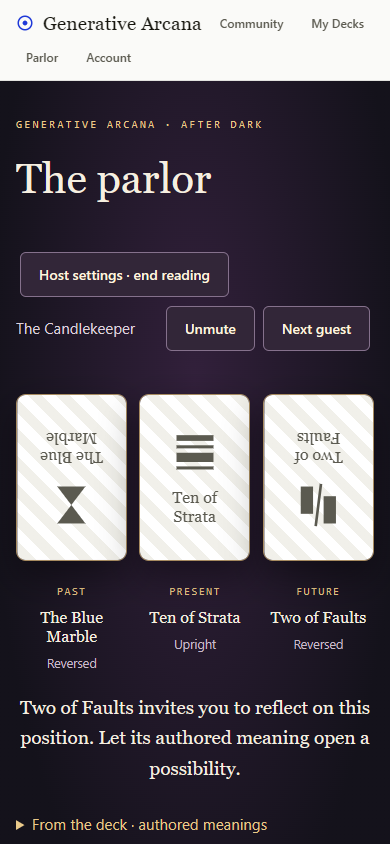
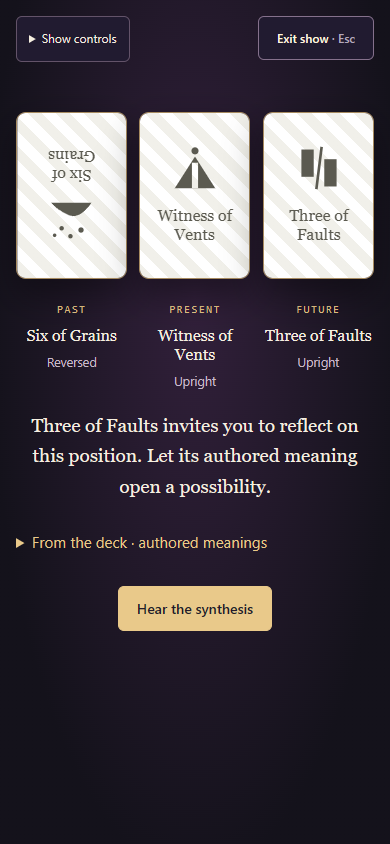
Add focused parlor show mode with safe Escape exit

diff --git a/app/src/parlor/Parlor.tsx b/app/src/parlor/Parlor.tsx
@@ -1,4 +1,4 @@
-import { useEffect, useLayoutEffect, useMemo, useState, useSyncExternalStore } from "react";
+import { useEffect, useLayoutEffect, useMemo, useRef, useState, useSyncExternalStore } from "react";
 import { useBrowserSession } from "../auth/session";
 import { listMyDecks, type CatalogDeckSummary } from "../catalog/api";
 import { RemoteDeckBoundary } from "../app/RemoteDeckBoundary";
@@ -11,17 +11,17 @@ import { characters, clearKeys, defaultSettings, readSettings, readySettings, sa
 import { ParlorMachine } from "./machine";
 import "./parlor.css";
 
-export function Parlor() {
+export function Parlor({ onShowChange }: { onShowChange(showing: boolean): void }) {
   const { session, signIn, refresh } = useBrowserSession();
   if (session.status !== "authenticated" || !session.accountId) return <section className="parlor parlor-gate">
     <p className="parlor-eyebrow">Generative Arcana · After dark</p><h1>The parlor</h1>
     <p>{session.status === "loading" ? "Checking your invitation…" : "Sign in to host a reading at your private table."}</p>
     {session.status !== "loading" && <><button onClick={() => signIn("/parlor")}>Sign in to enter</button><button onClick={() => void refresh()}>Check account again</button></>}
   </section>;
-  return <Host key={session.accountId} accountId={session.accountId} />;
+  return <Host key={session.accountId} accountId={session.accountId} onShowChange={onShowChange} />;
 }
 
-function Host({ accountId }: { accountId: string }) {
+function Host({ accountId, onShowChange }: { accountId: string; onShowChange(showing: boolean): void }) {
   const [restored] = useState(() => { try { return readSettings(window.localStorage, accountId); } catch { return { settings: defaultSettings(), remember: false }; } });
   const [settings, setSettings] = useState(restored.settings);
   const [remember, setRemember] = useState(restored.remember);
@@ -31,6 +31,25 @@ function Host({ accountId }: { accountId: string }) {
   const [status, setStatus] = useState("loading");
   const [attempt, setAttempt] = useState(0);
   const [hosting, setHosting] = useState(false);
+  const startButton = useRef<HTMLButtonElement>(null);
+  const showing = useRef(false);
+  useLayoutEffect(() => {
+    onShowChange(hosting);
+    if (hosting) document.scrollingElement?.scrollTo({ top: 0 });
+    if (!hosting && showing.current) startButton.current?.focus();
+    showing.current = hosting;
+    return () => onShowChange(false);
+  }, [hosting, onShowChange]);
+  useEffect(() => {
+    if (!hosting) return;
+    const exit = (event: KeyboardEvent) => {
+      if (event.key === "Escape" && !event.isComposing) { event.preventDefault(); setHosting(false); }
+    };
+    const leave = () => setHosting(false);
+    window.addEventListener("keydown", exit);
+    window.addEventListener("pagehide", leave);
+    return () => { window.removeEventListener("keydown", exit); window.removeEventListener("pagehide", leave); };
+  }, [hosting]);
   useEffect(() => {
     const abort = new AbortController(); setStatus("loading");
     void listMyDecks(abort.signal).then((items) => { if (!abort.signal.aborted) { setDecks(items); setDeckId((previous) => items.some((deck) => deck.id === previous) ? previous : items[0]?.id ?? ""); setStatus("ready"); } })
@@ -41,9 +60,11 @@ function Host({ accountId }: { accountId: string }) {
     setSettings(next); setRemember(persist);
     try { setStorageError(!saveSettings(window.localStorage, accountId, next, persist)); } catch { setStorageError(true); }
   };
-  return <section className="parlor">
+  return <section className={`parlor${hosting ? " parlor-show" : ""}`} aria-label={hosting ? "Parlor show" : "Parlor setup"}>
+    {hosting && <button className="parlor-exit" onClick={() => setHosting(false)} aria-keyshortcuts="Escape">Exit show <span aria-hidden>· Esc</span></button>}
+    {!hosting &&
     <div className="parlor-heading"><div><p className="parlor-eyebrow">Generative Arcana · After dark</p><h1>The parlor</h1></div>
-      {hosting && <button onClick={() => setHosting(false)}>Host settings · end reading</button>}</div>
+    </div>}
     {!hosting && <div className="parlor-settings">
       <div><h2>Set the table</h2><p>Choose a deck, a storyteller, and the voice of the evening.</p>
         <label>Deck<select aria-label="Deck" value={deckId} onChange={(event) => setDeckId(event.target.value)} disabled={status !== "ready"}>
@@ -71,14 +92,14 @@ function Host({ accountId }: { accountId: string }) {
       </div>
     </div>}
     {deckId && <RemoteDeckBoundary key={deckId} deckId={deckId} routeKey="/parlor">
-      <TableSetup deckId={deckId} settings={settings} hosting={hosting} start={() => setHosting(true)} />
+      <TableSetup deckId={deckId} settings={settings} hosting={hosting} start={() => setHosting(true)} startButton={startButton} />
     </RemoteDeckBoundary>}
   </section>;
 }
 function KeyInput({ label, value, change }: { label: string; value: string; change(value: string): void }) {
   return <label>{label}<input type="password" value={value} onChange={(event) => change(event.target.value)} autoComplete="off" autoCapitalize="none" spellCheck={false} maxLength={4096} data-1p-ignore data-lpignore="true" /></label>;
 }
-function TableSetup({ deckId, settings, hosting, start }: { deckId: string; settings: Settings; hosting: boolean; start(): void }) {
+function TableSetup({ deckId, settings, hosting, start, startButton }: { deckId: string; settings: Settings; hosting: boolean; start(): void; startButton: React.RefObject<HTMLButtonElement> }) {
   const artwork = useArtworkSelection();
   const deck = getDeck(deckId)!;
   const ready = readySettings(settings) && deck.cards.length >= 3 && (!artwork || (artwork.resolved && !!artwork.packId));
@@ -92,7 +113,8 @@ function TableSetup({ deckId, settings, hosting, start }: { deckId: string; sett
     {artwork?.status === "error" && <p role="alert">Artwork could not be checked. <button onClick={artwork.refresh}>Retry artwork</button></p>}
     <p>Questions and conversation stay in memory here and clear for the next guest. Your selected provider receives the question and deck context; ElevenLabs receives narration when enabled. Their retention policies apply. This app does not save guest readings.</p>
     {deck.cards.length < 3 && <p role="alert">Choose a deck with at least three cards.</p>}
-    <button className="parlor-primary" disabled={!ready} onClick={start}>Open the parlor</button>
+    <button ref={startButton} className="parlor-primary" disabled={!ready} onClick={start}>Start the show</button>
+    <p className="parlor-show-hint">The setup and navigation fade away. Press Escape or Exit show to end the reading and return here.</p>
   </div>;
 }
 function Ritual({ deckId, settings }: { deckId: string; settings: Settings }) {
@@ -105,6 +127,15 @@ function Ritual({ deckId, settings }: { deckId: string; settings: Settings }) {
   const [muted, setMuted] = useState(false);
   const [followup, setFollowup] = useState("");
   const [back, setBack] = useState<PackArtworkAsset | null>(null);
+  const stage = useRef<HTMLDivElement>(null);
+  useLayoutEffect(() => {
+    // Keep keyboard focus in the current, visible step when its initiating control disappears.
+    const active = document.activeElement;
+    if (!active || active === document.body || (stage.current?.contains(active) && !active.closest(".parlor-show-controls"))) {
+      const target = stage.current?.querySelector<HTMLElement>("textarea, .parlor-primary, .parlor-actions button");
+      (target ?? stage.current)?.focus({ preventScroll: true });
+    }
+  }, [state.phase]);
   useLayoutEffect(() => () => machine.dispose(), [machine]);
   useEffect(() => {
     const abort = new AbortController(); setBack(null);
@@ -118,14 +149,14 @@ function Ritual({ deckId, settings }: { deckId: string; settings: Settings }) {
     return () => window.removeEventListener("pagehide", clear);
   }, [machine]);
   const busy = ["drawing", "generating", "speaking", "conversation"].includes(state.phase);
-  return <div className="parlor-ritual" onClickCapture={(event) => {
+  return <div ref={stage} tabIndex={-1} className="parlor-ritual" onClickCapture={(event) => {
     // A fast response can replace Retry with Pause underneath the second half of a double click.
     if (event.detail > 1) { event.preventDefault(); event.stopPropagation(); }
   }}>
-    <div className="parlor-toolbar"><p>{characters[settings.character].name}</p><div>
+    <details className="parlor-show-controls"><summary>Show controls</summary><div>
       <button aria-pressed={muted} onClick={() => { const next = !muted; setMuted(next); if (next && state.phase === "speaking") machine.captions(); }}>{muted ? "Unmute" : "Mute"}</button>
       <button onClick={() => { machine.reset(); setFollowup(""); }}>Next guest</button>
-    </div></div>
+    </div></details>
     {state.phase === "greeting" && <div className="parlor-intro"><div className="parlor-sigil" aria-hidden>☾</div><h2>A seat between worlds</h2><p>{characters[settings.character].greeting}</p><button className="parlor-primary" onClick={() => machine.begin()}>Take a seat</button><small>For reflection and entertainment. You may stop at any time.</small></div>}
     {state.phase === "question" && <form className="parlor-question" onSubmit={(event) => { event.preventDefault(); machine.review(); }}><label>What would you like to explore?<textarea value={state.question} onChange={(event) => machine.question(event.target.value)} maxLength={1200} autoFocus /></label><button className="parlor-primary" disabled={!state.question.trim()}>Bring this question</button></form>}
     {state.phase === "confirm" && <div className="parlor-question"><h2>Shall we ask the cards?</h2><blockquote>{state.question}</blockquote><button onClick={() => machine.edit()}>Edit question</button><button className="parlor-primary" onClick={() => machine.confirm()}>Confirm & deal three cards</button></div>}

diff --git a/app/src/app/App.tsx b/app/src/app/App.tsx
@@ -1,4 +1,4 @@
-import { useEffect, useLayoutEffect, type CSSProperties } from "react";
+import { useEffect, useLayoutEffect, useState, type CSSProperties } from "react";
 import { useBrowserSession } from "@/auth/session";
 import { Account } from "@/auth/Account";
 import { parseAccountRoute } from "@/auth/api";
@@ -24,6 +24,7 @@ type Tab = "about" | "browse" | "read";
 export function App() {
   const route = useHashRoute();
   const { session } = useBrowserSession();
+  const [showMode, setShowMode] = useState(false);
 
   // Clear authenticated snapshots before the new session's passive loading effects start.
   useLayoutEffect(() => { catalogDeckRuntime.clear(); }, [session]);
@@ -34,7 +35,7 @@ export function App() {
   let tab: Tab | null = null;
   const accountRoute = parseAccountRoute(route, window.location.search);
   if (accountRoute) content = <Account key={route} route={accountRoute} />;
-  else if (route.match(/^\/parlor\/?$/)) content = <Parlor />;
+  else if (route.match(/^\/parlor\/?$/)) content = <Parlor onShowChange={setShowMode} />;
   else if (route.match(/^\/community\/?$/)) content = <Community />;
   else if (route.match(/^\/my-decks\/?$/)) content = <MyDecks key={session.status === "authenticated" ? session.user.email : session.status} />;
   else if ((m = route.match(/^\/deck\/([^/]+)\/artwork\/?$/))) { deckId = m[1]; content = <RemoteDeckBoundary deckId={deckId} routeKey={route}><ArtworkEditor deckId={deckId} /></RemoteDeckBoundary>; }
@@ -59,8 +60,8 @@ export function App() {
     : "My Decks";
 
   return (
-    <div style={{ minHeight: "100vh" }}>
-      <header style={header}>
+    <div style={{ minHeight: "100vh", ...(showMode ? { background: "#14121b" } : {}) }}>
+      <header style={{ ...header, ...(showMode ? { display: "none" } : {}) }}>
         <div style={{ display: "flex", alignItems: "center", gap: 8, flexWrap: "wrap" }}>
           <button onClick={() => navigate("/")} style={brand} aria-label="Generative Arcana — home">
             <BrandMark />

diff --git a/app/src/parlor/parlor.css b/app/src/parlor/parlor.css
@@ -48,3 +48,15 @@
 .parlor-actions { text-align: center; }
 @media (max-width: 800px) { .parlor-settings { grid-template-columns: 1fr; } .parlor { padding: 24px 16px; } .parlor-table figcaption strong { font-size: 16px; } .parlor-caption { font-size: 19px; } }
 @media (prefers-reduced-motion: reduce) { .parlor-card-turn { transition: none; } }
+
+.parlor-show { min-height: 100vh; min-height: 100dvh; padding-top: 88px; animation: parlor-arrive 450ms ease-out; }
+.parlor-show .parlor-ritual { max-width: 1200px; margin: auto; outline: none; }
+.parlor-show .parlor-table { margin-top: 24px; }
+.parlor button.parlor-exit { position: fixed; top: 12px; right: 12px; z-index: 60; background: #211b30; font-size: 12px; min-height: 44px; }
+.parlor-exit span { color: #b4a8bb; }
+.parlor-show-controls { position: fixed; top: 16px; left: 16px; z-index: 60; background: #211b30; border: 1px solid #635369; border-radius: 6px; font-size: 12px; }
+.parlor-show-controls summary { padding: 12px; min-height: 44px; cursor: pointer; }
+.parlor-show-controls[open] { box-shadow: 0 12px 30px #0006; }
+.parlor-show-hint { font-size: 13px; }
+@keyframes parlor-arrive { from { opacity: 0; } to { opacity: 1; } }
+@media (prefers-reduced-motion: reduce) { .parlor-show { animation: none; } }

diff --git a/docs/parlor.md b/docs/parlor.md
@@ -8,6 +8,8 @@ The first version uses typed questions and captions, with spoken card interpreta
 
 ## Credentials and privacy
 
+**Start the show** fades into a tabletop presentation with setup and app navigation removed. Typed questions, confirmation, captions and the next reading action remain visible; optional Mute and Next guest controls sit in the Show controls disclosure. Escape or the touch-friendly Exit show button ends the reading and returns focus to Start the show in setup. Exiting disposes the reading machine, aborts pending generation/conversation, stops audio and clears guest state; late responses cannot reopen the show. Host settings remain available for the next show. Reduced motion disables the entrance fade and card flip. Browser Back, navigation, logout/account changes and pagehide also tear down the show without requiring browser fullscreen.
+
 - All three API-key inputs are always password fields, including pasted/restored values. There is no reveal toggle. Masking is visual, not encryption.
 - Keys stay in browser memory by default. Remember-on-device is explicit, account-scoped, plaintext localStorage. Unchecking it removes the saved record; Clear keys empties all key fields and removes the record. Storage failures are reported without claiming erasure succeeded.
 - Remembered keys can be read by same-origin scripts, extensions or people with browser access. Account gating is not a localStorage security boundary. Use a trusted device and limited provider credentials.
